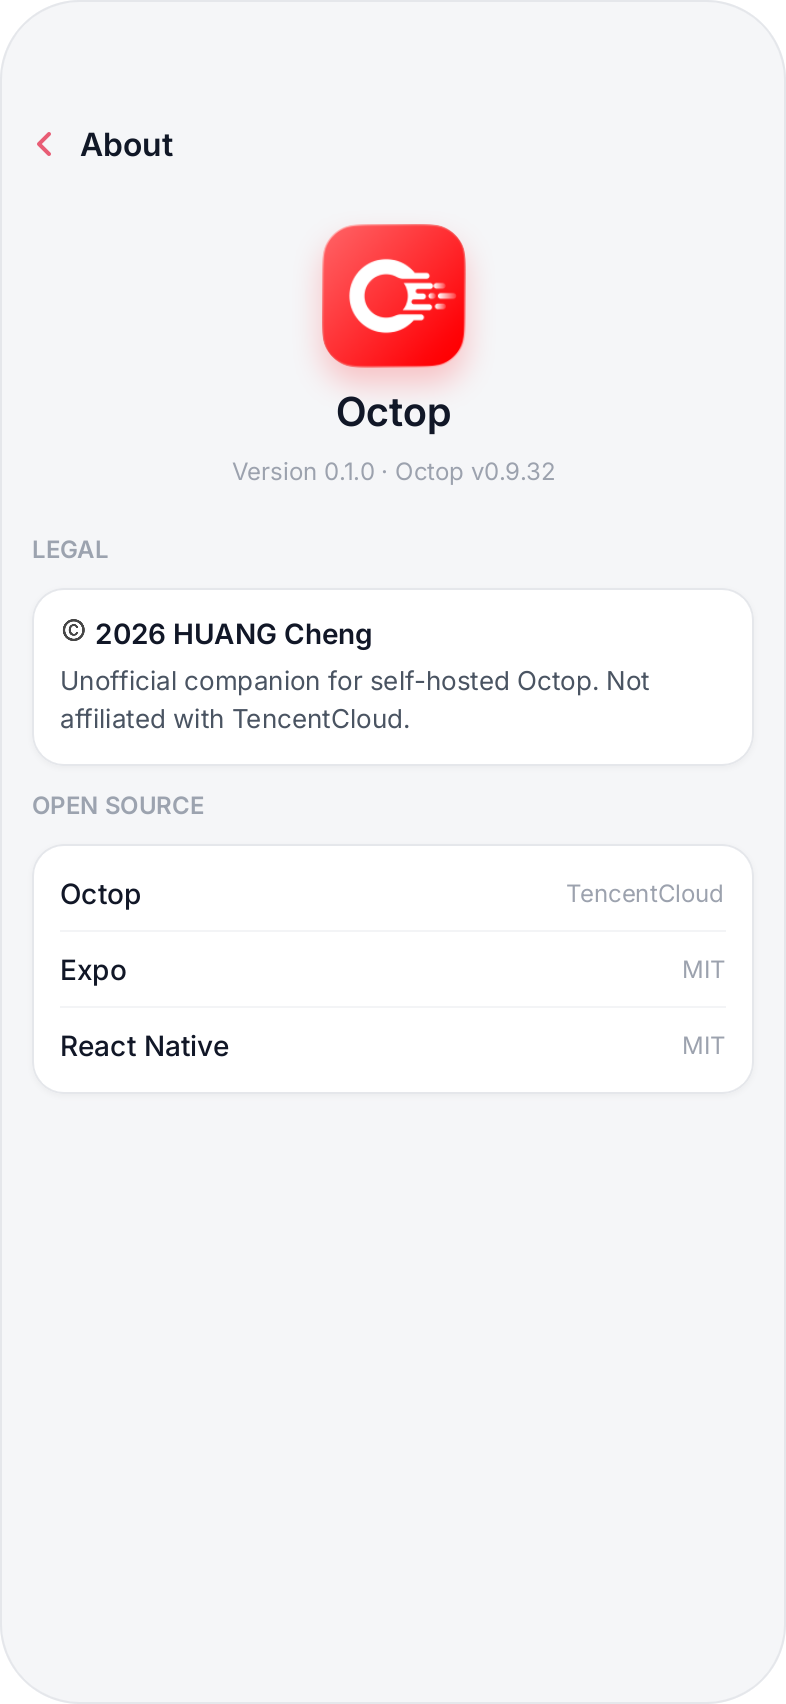
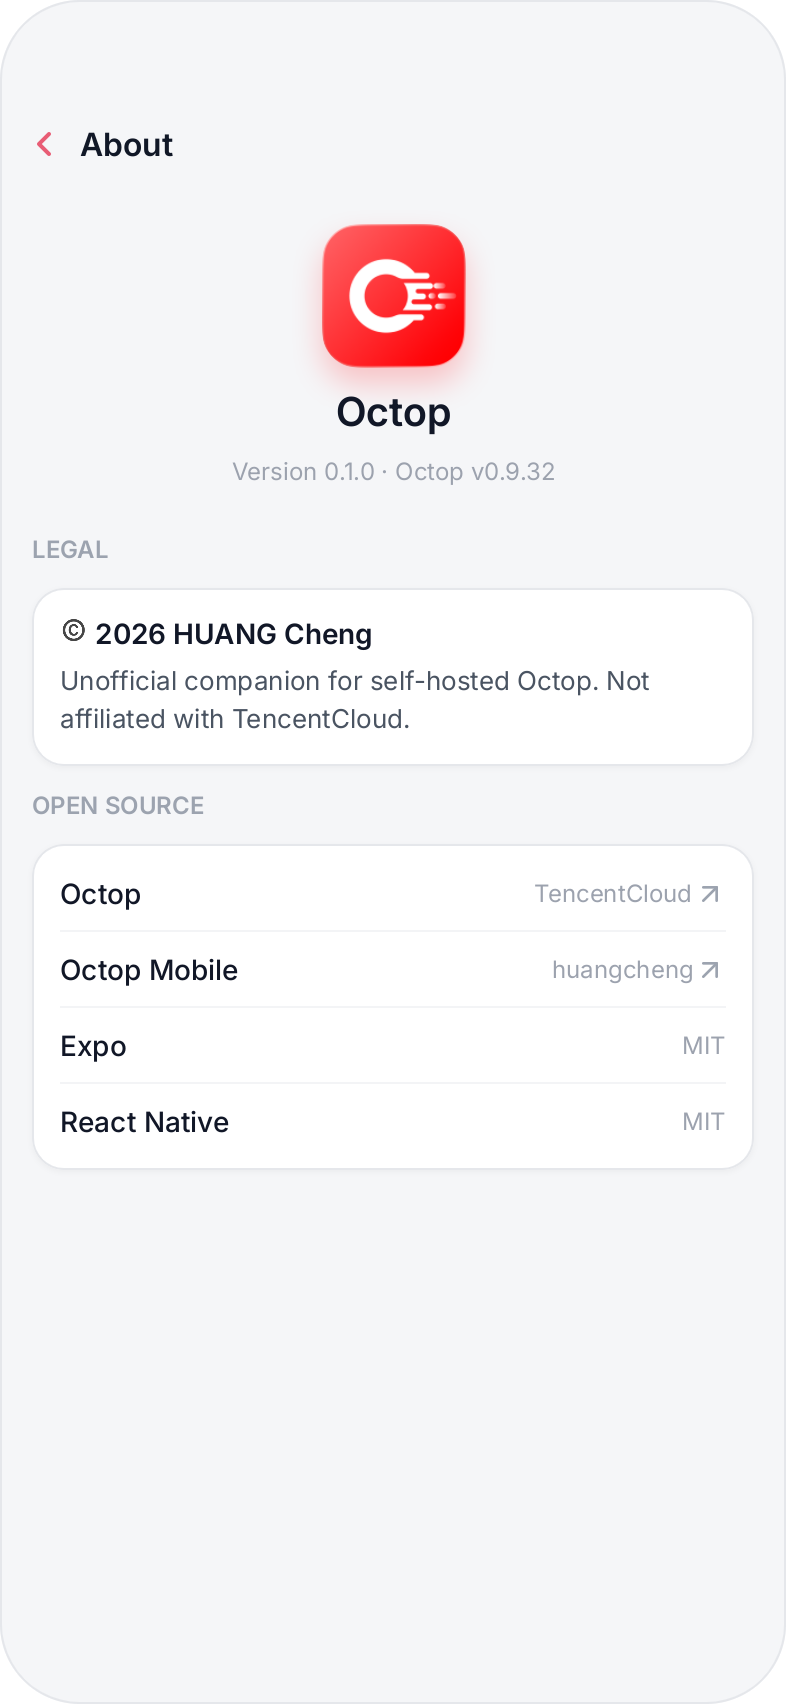
feat: link Octop and Octop Mobile GitHub repos from About
OPEN SOURCE rows for Octop (TencentCloud) and Octop Mobile
(huangcheng) open in the in-app browser with the external-link
affordance; Ardot frame 8:33 updated and snapshot re-exported.

diff --git a/app/about.tsx b/app/about.tsx
@@ -2,14 +2,18 @@ import { router } from "expo-router";
 import { Image, Pressable, StyleSheet, Text, View as RNView, ScrollView } from "react-native";
 import { SymbolView } from "expo-symbols";
 import { useSafeAreaInsets } from "react-native-safe-area-context";
+import * as WebBrowser from "expo-web-browser";
 
 import { useOctopTheme } from "@/src/components/useOctopTheme";
 import { useI18n } from "@/src/i18n/I18nProvider";
 
 type SFSymbol = Parameters<typeof SymbolView>[0]["name"];
 
-const OSS_ROWS: Array<{ key: string; name: string; meta: string }> = [
-  { key: "octop", name: "Octop", meta: "TencentCloud" },
+type OssRow = { key: string; name: string; meta: string; url?: string };
+
+const OSS_ROWS: OssRow[] = [
+  { key: "octop", name: "Octop", meta: "TencentCloud", url: "https://github.com/TencentCloud/Octop" },
+  { key: "octop-mobile", name: "Octop Mobile", meta: "huangcheng", url: "https://github.com/huangcheng/OctopMobile" },
   { key: "expo", name: "Expo", meta: "MIT" },
   { key: "rn", name: "React Native", meta: "MIT" },
 ];
@@ -91,10 +95,23 @@ export default function AboutScreen() {
               {index > 0 ? (
                 <RNView style={[styles.divider, { backgroundColor: C.borderSecondary }]} />
               ) : null}
-              <RNView style={styles.ossRow}>
+              <Pressable
+                style={({ pressed }) => [styles.ossRow, pressed && row.url && styles.pressed]}
+                onPress={row.url ? () => void WebBrowser.openBrowserAsync(row.url as string) : undefined}
+                disabled={!row.url}
+                accessibilityRole={row.url ? "link" : "text"}
+                accessibilityLabel={row.url ? `${row.name} — ${row.url}` : row.name}
+              >
                 <Text style={[styles.ossName, { color: C.text }]}>{row.name}</Text>
                 <Text style={[styles.ossMeta, { color: C.textTertiary }]}>{row.meta}</Text>
-              </RNView>
+                {row.url ? (
+                  <SymbolView
+                    name={{ ios: "arrow.up.right", android: "north_east", web: "north_east" } as unknown as SFSymbol}
+                    tintColor={C.textTertiary}
+                    size={14}
+                  />
+                ) : null}
+              </Pressable>
             </RNView>
           ))}
         </RNView>
@@ -106,6 +123,9 @@ export default function AboutScreen() {
 const styles = StyleSheet.create({
   container: {
     flex: 1,
+  },
+  pressed: {
+    opacity: 0.7,
   },
   header: {
     flexDirection: "row",
@@ -175,6 +195,7 @@ const styles = StyleSheet.create({
   ossRow: {
     flexDirection: "row",
     alignItems: "center",
+    gap: 6,
     paddingVertical: 10,
   },
   ossName: {
